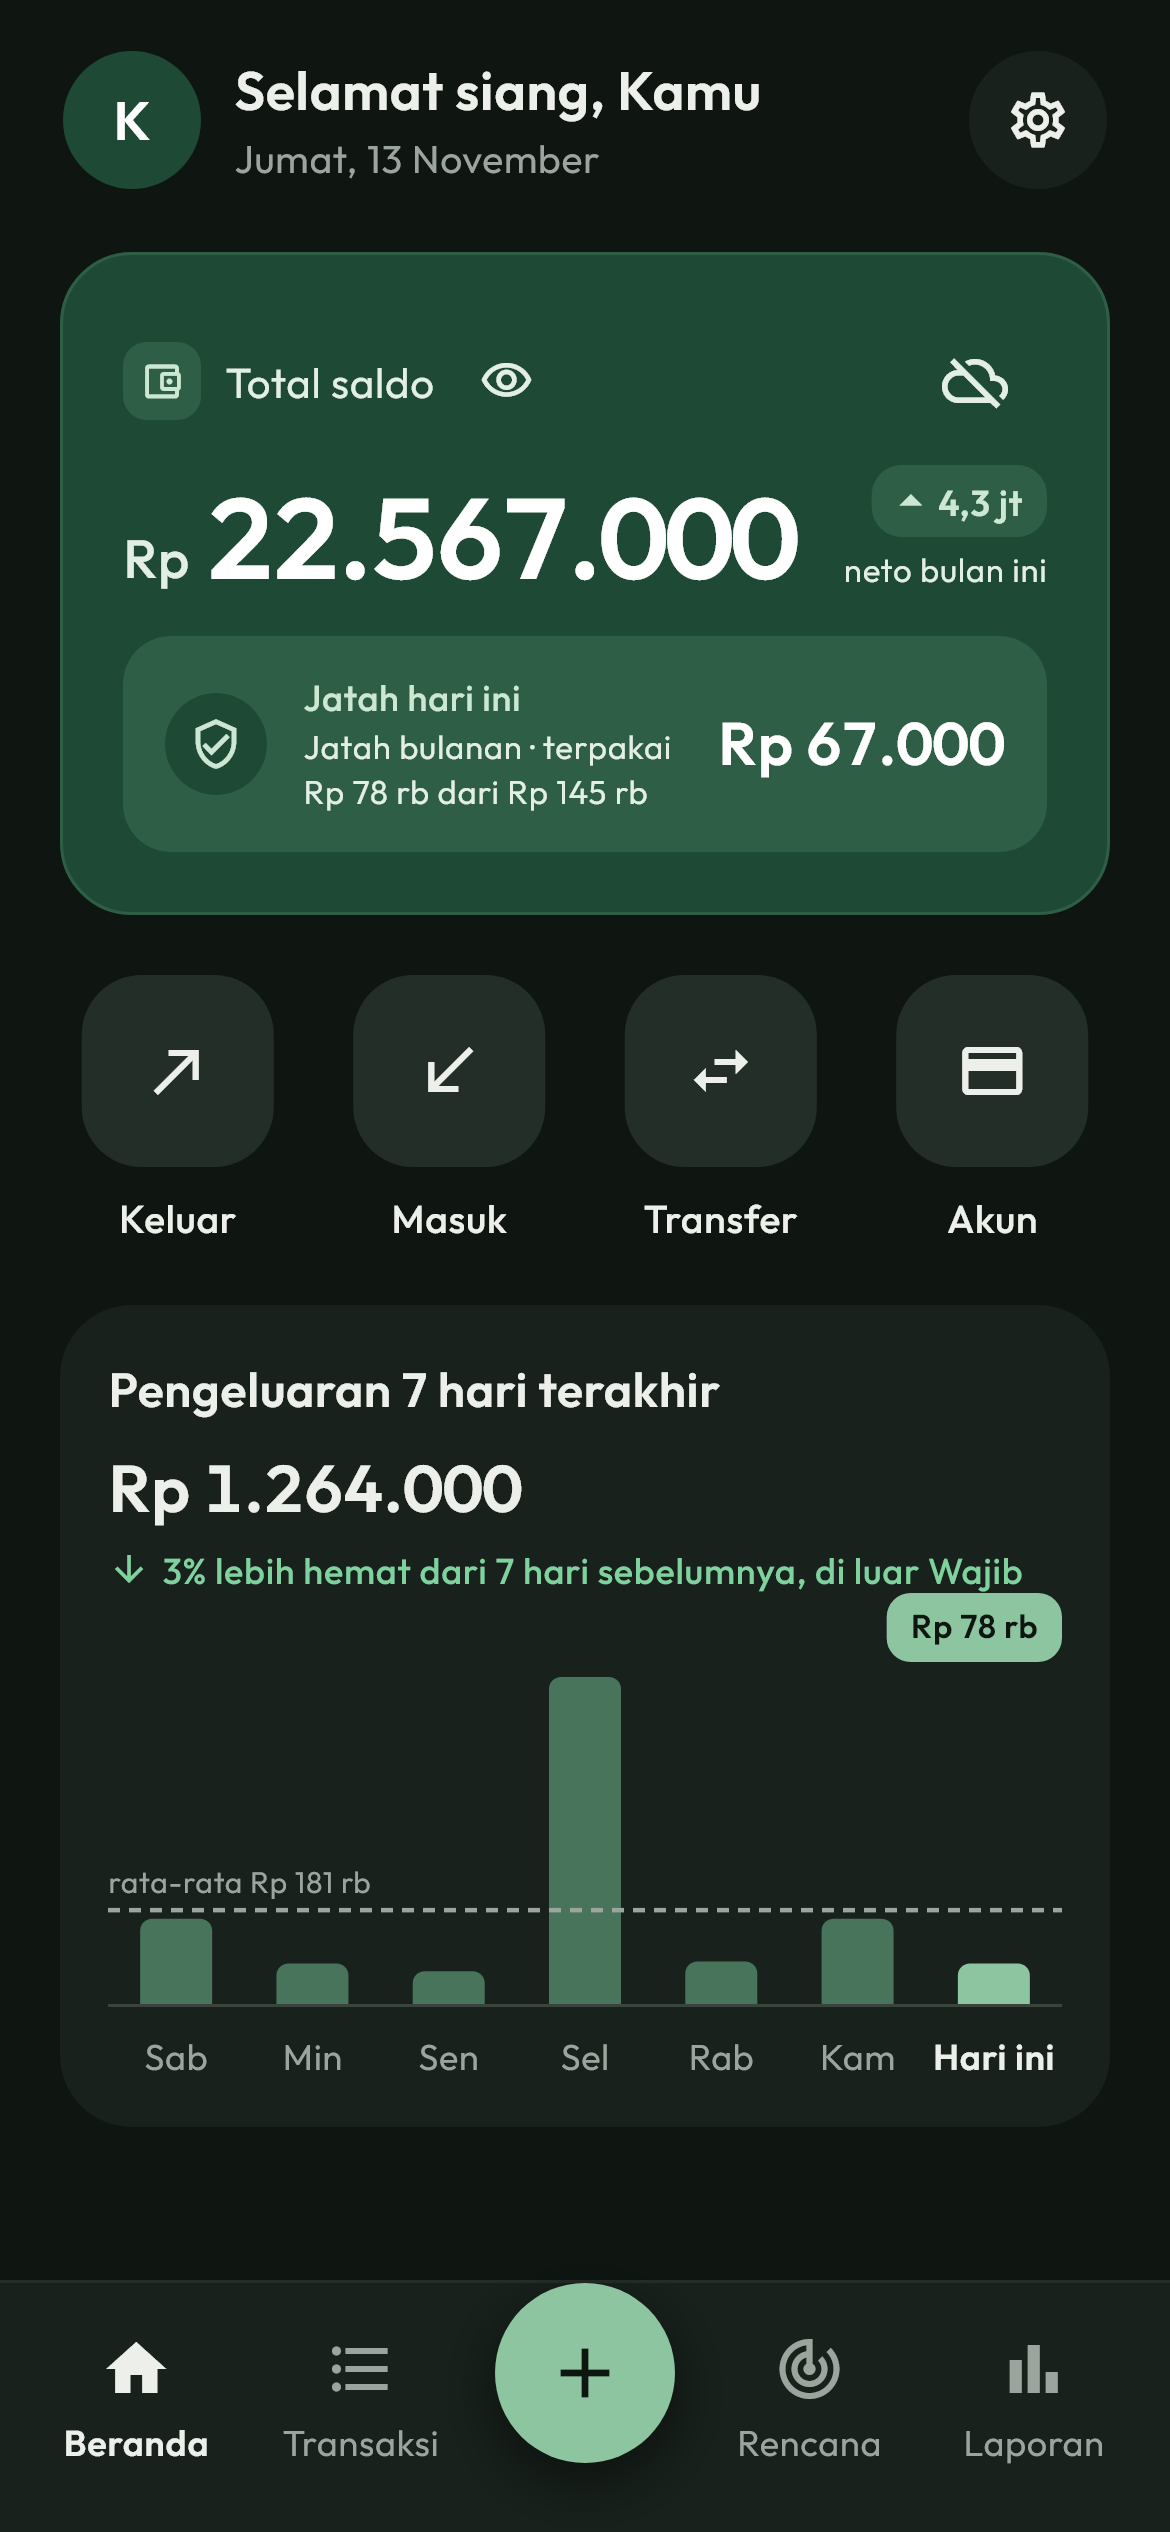
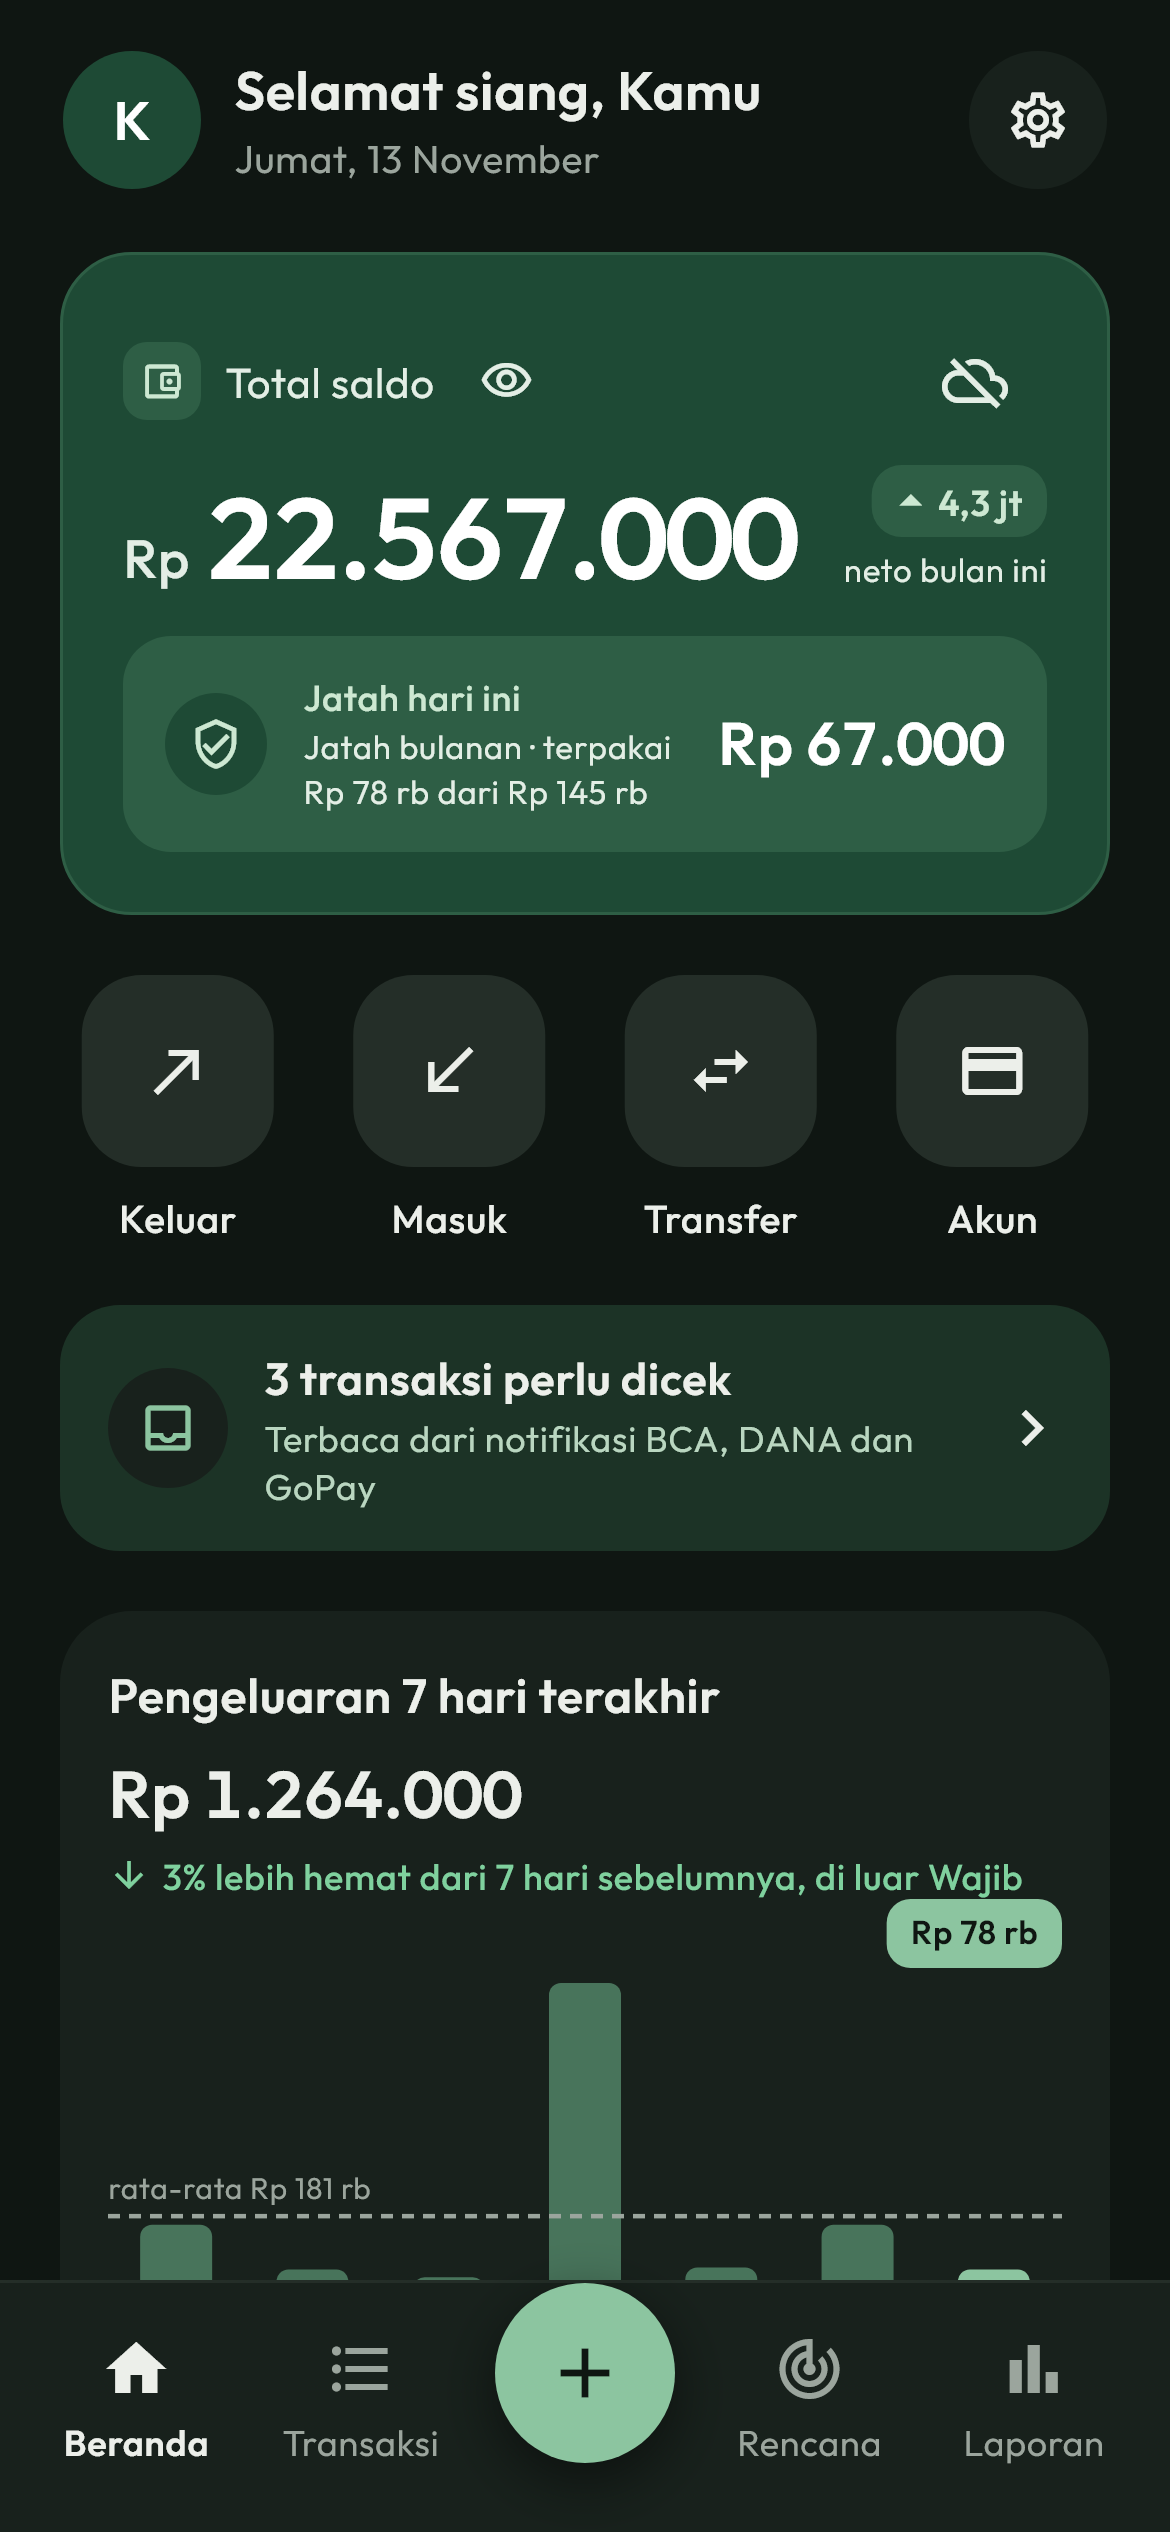
docs: show notification capture under Perlu dicek in the README

diff --git a/screenshots/readme_test.dart b/screenshots/readme_test.dart
@@ -144,6 +144,17 @@ Future<void> _seed() async {
     });
   }
   await row('prefs', {'id': 'home_budget', 'value': 'b-bulanan'});
+  // Read from bank and e-wallet notifications, waiting under "perlu dicek".
+  for (final (i, provider, title, text, rupiah, type, minutesAgo) in [
+    (0, 'gopay', 'Kedai Kopi Senja', 'Kamu bayar Rp32.000 ke Kedai Kopi Senja', 32000, 'expense', 25),
+    (1, 'bca', 'Warung Makan Bu Sri', 'Pembayaran QRIS Rp45.000 berhasil', 45000, 'expense', 140),
+    (2, 'dana', 'Transfer dari Rina', 'Kamu menerima Rp150.000 dari Rina', 150000, 'income', 300),
+  ]) {
+    await row('inbox', {
+      'id': 'n$i', 'ref': 'demo-$i', 'package': 'demo', 'provider': provider, 'title': title, 'text': text,
+      'amount': _rp(rupiah), 'type': type, 'posted_at': _iso(_now.subtract(Duration(minutes: minutesAgo))),
+    });
+  }
   // Nothing waits to upload, so the sync button shows no pending badge.
   for (var tx = await db.getNextCrudTransaction(); tx != null; tx = await db.getNextCrudTransaction()) {
     await tx.complete();

diff --git a/README.md b/README.md
@@ -29,8 +29,10 @@ notification do it. Then it shows where the money went and whether the month is 
 
 **Capture**
 - Quick input: type `kopi 18rb pakai gopay` and get the amount, category, and account filled in.
-- Bank and e-wallet notifications (BCA, GoPay, DANA, and more) become transactions waiting for a
-  tap. Names, account numbers, and emails are redacted on the phone before any text reaches the AI.
+- Bank and e-wallet notifications (BCA, GoPay, DANA, and more) become transactions. Home shows how
+  many wait under **Perlu dicek** ("to check"). There, swipe one right to save it or left to ignore
+  it, or tap it to fix the category or account first. Names, account numbers, and emails are redacted on the phone before
+  any text reaches the AI.
 - Scan a receipt photo into a transaction with its line items.
 - Home-screen widget with today's allowance, and an app shortcut straight to quick input.
 
@@ -59,8 +61,8 @@ notification do it. Then it shows where the money went and whether the month is 
     <td><img src="docs/readme/rencana-light.png" alt="Plans" width="200"></td>
   </tr>
   <tr>
-    <td align="center">Home</td>
-    <td align="center">Transactions</td>
+    <td align="center">Home, with notifications to check</td>
+    <td align="center">Transactions and Perlu dicek</td>
     <td align="center">Bills, budgets, goals</td>
   </tr>
   <tr>
